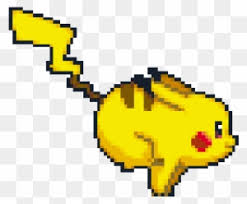
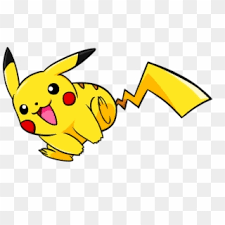
feat: Update game with user feedback
This commit incorporates user feedback to improve the game.

Changes include:
- The player character has been updated to use a user-provided Pikachu sprite.
- The game difficulty has been adjusted by making the physics more forgiving and increasing the pipe gap.
- The game resolution has been increased for a better playing experience.
- The project has been cleaned up by removing unused and empty files.

diff --git a/game.js b/game.js
@@ -3,7 +3,7 @@ const ctx = canvas.getContext('2d');
 
 // Game constants
 const pipeWidth = 52;
-const pipeGap = 120;
+const pipeGap = 150;
 const pipeInterval = 120;
 
 // Game state variables
@@ -18,8 +18,8 @@ let bird = {
     y: 150,
     width: 40,
     height: 30,
-    gravity: 0.6,
-    lift: -15,
+    gravity: 0.4,
+    lift: -10,
     velocity: 0
 };
 const birdSprite = new Image();
@@ -75,8 +75,8 @@ function draw() {
 
     // Draw score
     ctx.fillStyle = '#000';
-    ctx.font = '20px Verdana';
-    ctx.fillText('Score: ' + score, 10, canvas.height - 20);
+    ctx.font = '30px Verdana';
+    ctx.fillText('Score: ' + score, 10, canvas.height - 30);
 
     // Ground collision
     if (bird.y + bird.height > canvas.height) {

diff --git a/style.css b/style.css
@@ -5,7 +5,12 @@ body {
 
 #gameCanvas {
     border: 1px solid black;
-    background: linear-gradient(to bottom, #70c5ce 0%, #a6e2e9 100%);
+    background: #70c5ce;
+    background-image:
+        radial-gradient(circle at 10% 20%, #fff 5%, transparent 5.5%),
+        radial-gradient(circle at 80% 30%, #fff 4%, transparent 4.5%),
+        radial-gradient(circle at 40% 70%, #fff 6%, transparent 6.5%),
+        radial-gradient(circle at 90% 80%, #fff 3%, transparent 3.5%);
 }
 
 #gameOverScreen {

diff --git a/index.html b/index.html
@@ -8,7 +8,7 @@
 <body>
     <h1>Flappy Pokémon</h1>
     <p>Press the spacebar to make Pikachu fly!</p>
-    <canvas id="gameCanvas" width="288" height="512"></canvas>
+    <canvas id="gameCanvas" width="576" height="768"></canvas>
     <div id="gameOverScreen" style="display: none;">
         <h2>Game Over</h2>
         <p>Your score: <span id="finalScore"></span></p>
